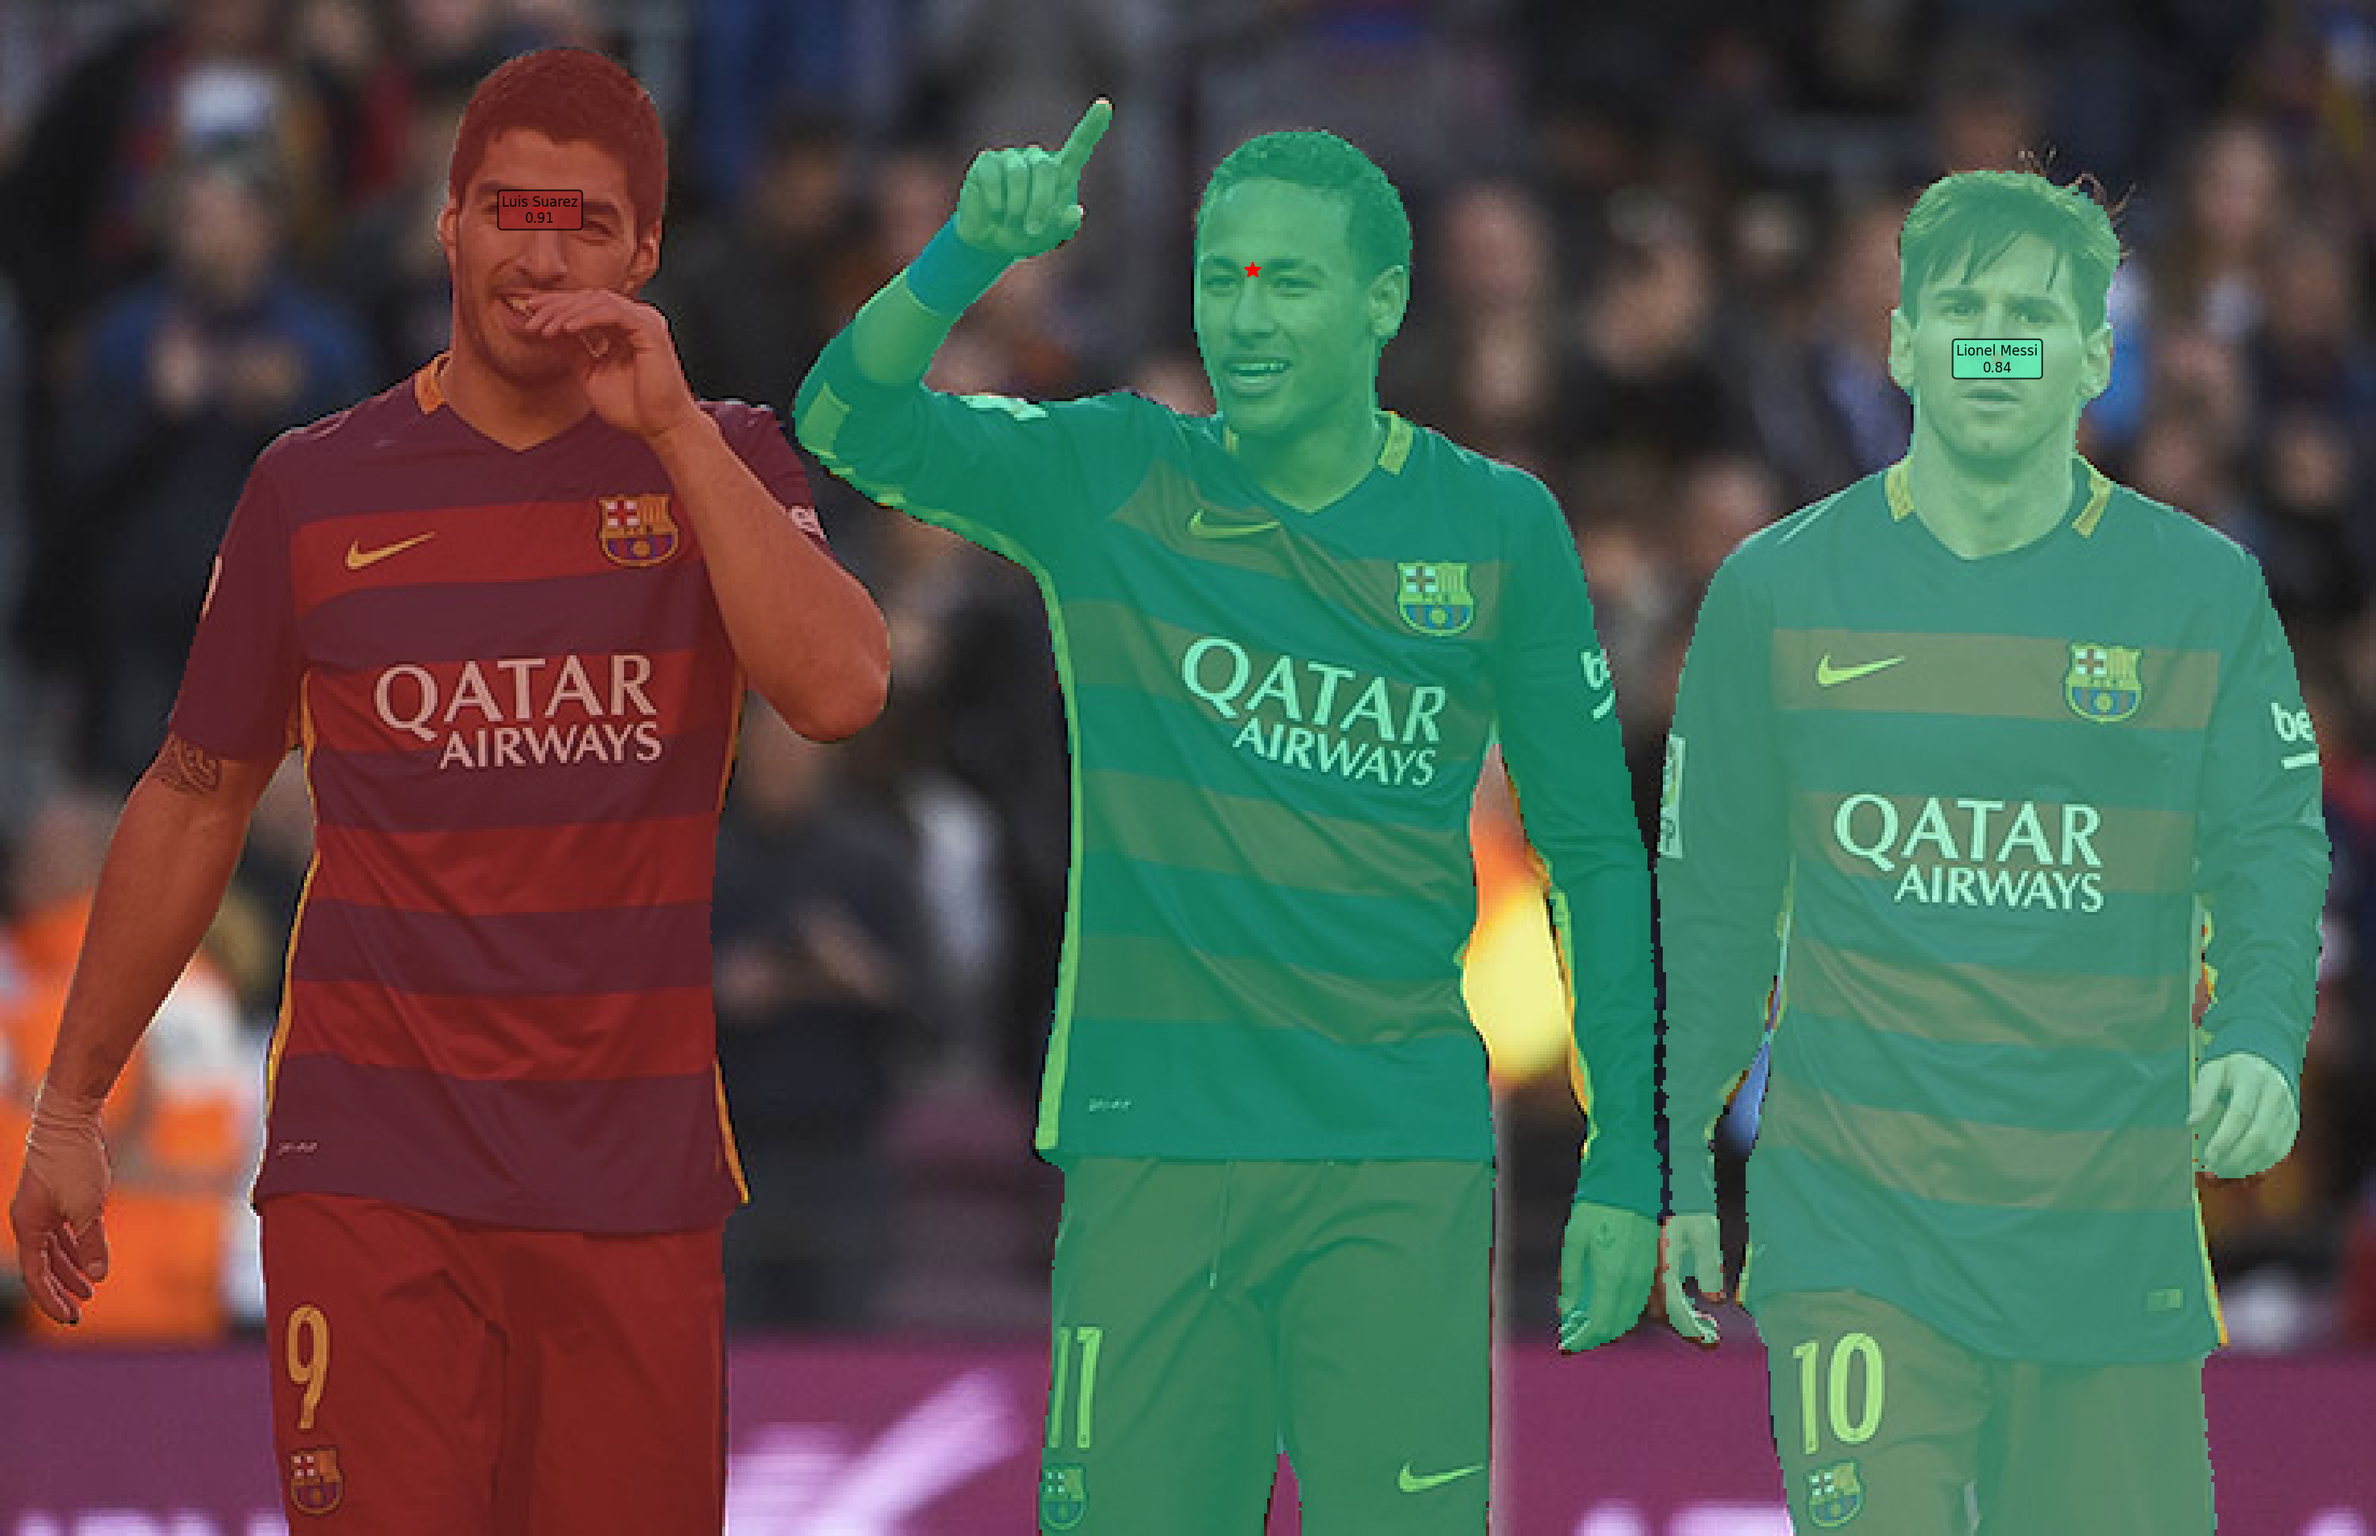
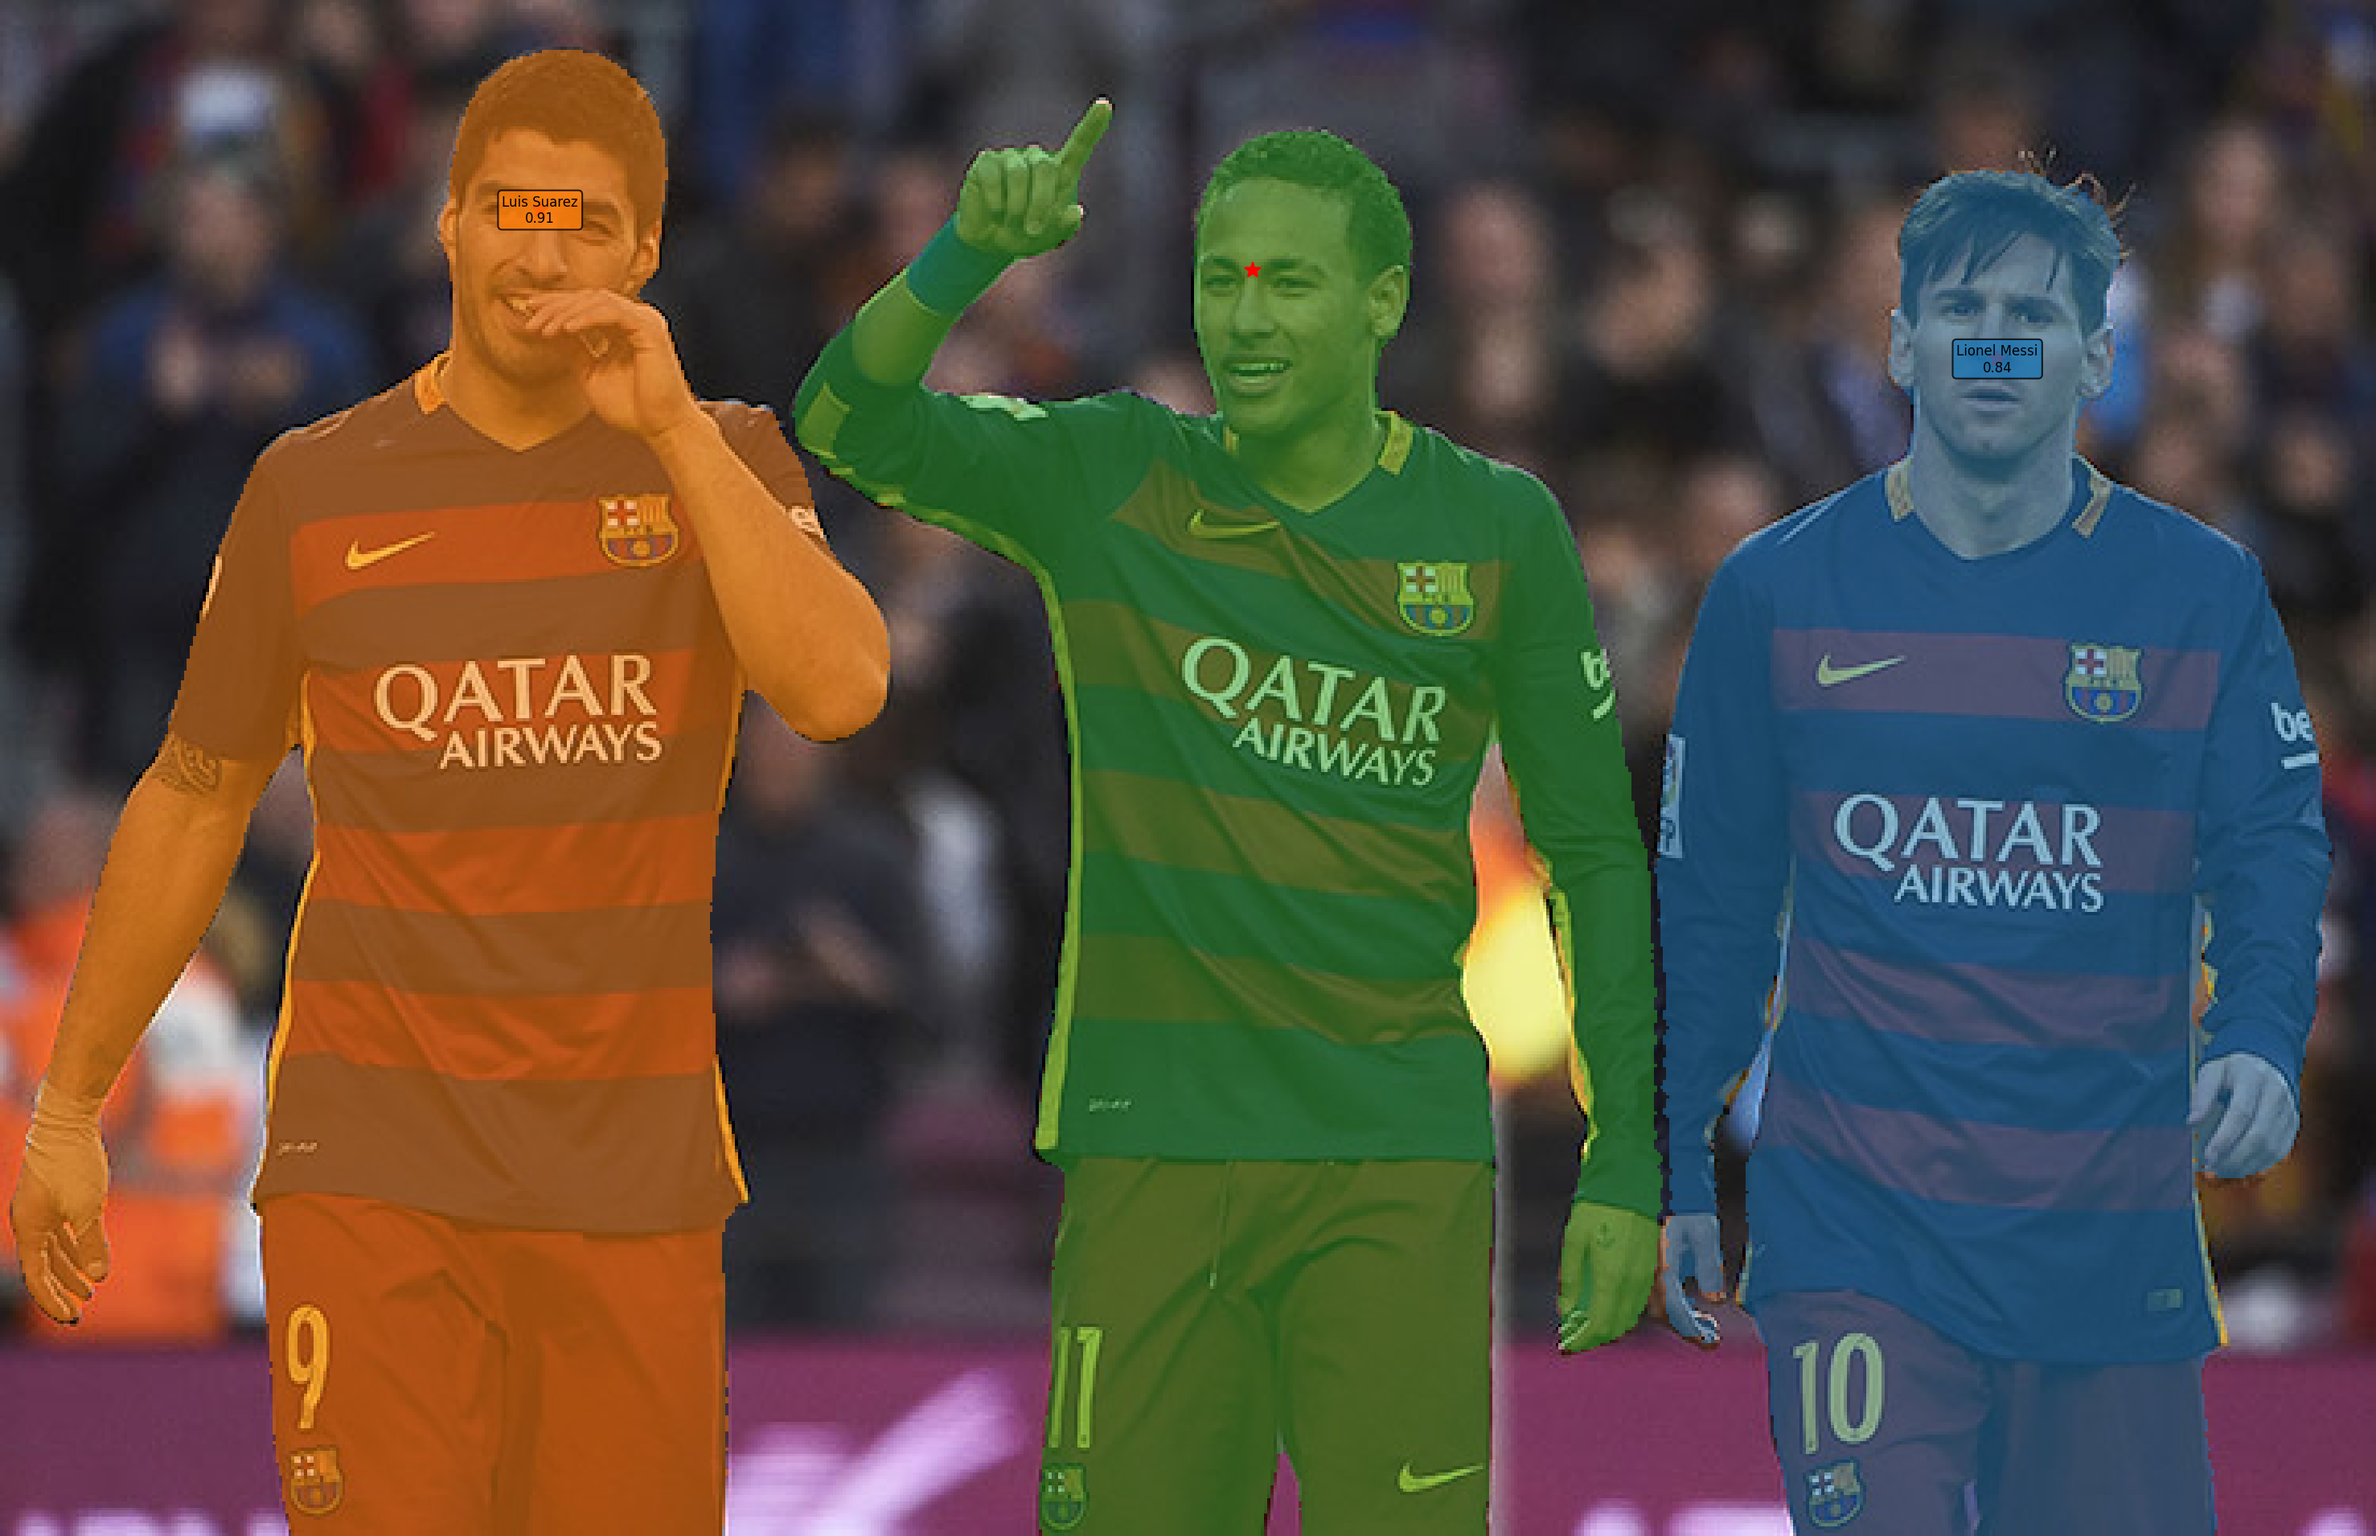
[Improve colors in visualizations]

diff --git a/code/clip_guided_segmentation.py b/code/clip_guided_segmentation.py
@@ -29,6 +29,54 @@ from scipy.ndimage import label, center_of_mass
 import cv2
 
 
+def generate_distinct_colors(n):
+    """
+    Generate visually distinct colors using a curated palette.
+
+    Args:
+        n: Number of colors needed
+
+    Returns:
+        List of RGB tuples in range [0, 1]
+    """
+    # Curated palette of visually distinct colors (RGB in 0-1 range)
+    base_palette = [
+        (0.12, 0.47, 0.71),  # Blue
+        (1.00, 0.50, 0.05),  # Orange
+        (0.17, 0.63, 0.17),  # Green
+        (0.84, 0.15, 0.16),  # Red
+        (0.58, 0.40, 0.74),  # Purple
+        (0.55, 0.34, 0.29),  # Brown
+        (0.89, 0.47, 0.76),  # Pink
+        (0.50, 0.50, 0.50),  # Gray
+        (0.74, 0.74, 0.13),  # Yellow
+        (0.09, 0.75, 0.81),  # Cyan
+        (1.00, 0.65, 0.00),  # Gold
+        (0.20, 0.80, 0.20),  # Lime
+        (0.80, 0.00, 0.80),  # Magenta
+        (0.00, 0.50, 0.50),  # Teal
+        (0.50, 0.00, 0.00),  # Maroon
+        (0.00, 0.00, 0.50),  # Navy
+    ]
+
+    if n <= len(base_palette):
+        return base_palette[:n]
+
+    # If we need more colors, generate additional ones using HSV
+    colors = list(base_palette)
+    for i in range(n - len(base_palette)):
+        hue = (i * 0.618033988749895) % 1.0  # Golden ratio for spacing
+        saturation = 0.6 + (i % 3) * 0.15
+        value = 0.7 + (i % 2) * 0.2
+
+        # Convert HSV to RGB
+        import colorsys
+        rgb = colorsys.hsv_to_rgb(hue, saturation, value)
+        colors.append(rgb)
+
+    return colors
+
+
 def is_video_file(file_path):
     """Check if file is a video."""
     video_extensions = {'.mp4', '.avi', '.mov', '.mkv', '.flv', '.wmv', '.webm'}
@@ -242,9 +290,9 @@ def visualize_results(image, results, vocabulary, output_path=None):
     fig, ax = plt.subplots(figsize=(20, 20))
     ax.imshow(image)
 
-    # Create color map for classes
-    np.random.seed(42)
-    class_colors = {i: np.random.random(3) for i in range(len(vocabulary))}
+    # Create color map for classes using distinct colors
+    distinct_colors = generate_distinct_colors(len(vocabulary))
+    class_colors = {i: distinct_colors[i] for i in range(len(vocabulary))}
 
     # Sort by region size (draw larger regions first)
     sorted_results = sorted(results, key=lambda x: x['region_size'], reverse=True)
@@ -323,9 +371,9 @@ def visualize_filtered_results(image, results, target_class, vocabulary, output_
         ax.imshow(image)
 
         # Use a single color for the target class
-        np.random.seed(42)
         target_class_idx = vocabulary.index(target_class)
-        class_colors = {i: np.random.random(3) for i in range(len(vocabulary))}
+        distinct_colors = generate_distinct_colors(len(vocabulary))
+        class_colors = {i: distinct_colors[i] for i in range(len(vocabulary))}
         target_color = class_colors[target_class_idx]
 
         # Sort by region size (draw larger regions first)

diff --git a/code/models/video_segmentation.py b/code/models/video_segmentation.py
@@ -16,8 +16,57 @@ import subprocess
 import tempfile
 import shutil
 import os
+import colorsys
 from typing import List, Dict
 from sam2.build_sam import build_sam2_video_predictor
+
+
+def generate_distinct_colors(n):
+    """
+    Generate visually distinct colors using a curated palette.
+
+    Args:
+        n: Number of colors needed
+
+    Returns:
+        List of RGB tuples in range [0, 255] (for OpenCV)
+    """
+    # Curated palette of visually distinct colors (RGB in 0-255 range for OpenCV)
+    base_palette = [
+        (31, 119, 180),   # Blue
+        (255, 127, 14),   # Orange
+        (44, 160, 44),    # Green
+        (214, 39, 40),    # Red
+        (148, 103, 189),  # Purple
+        (140, 86, 75),    # Brown
+        (227, 119, 194),  # Pink
+        (127, 127, 127),  # Gray
+        (188, 189, 34),   # Yellow
+        (23, 190, 207),   # Cyan
+        (255, 166, 0),    # Gold
+        (51, 204, 51),    # Lime
+        (204, 0, 204),    # Magenta
+        (0, 128, 128),    # Teal
+        (128, 0, 0),      # Maroon
+        (0, 0, 128),      # Navy
+    ]
+
+    if n <= len(base_palette):
+        return [list(c) for c in base_palette[:n]]
+
+    # If we need more colors, generate additional ones using HSV
+    colors = [list(c) for c in base_palette]
+    for i in range(n - len(base_palette)):
+        hue = (i * 0.618033988749895) % 1.0  # Golden ratio for spacing
+        saturation = 0.6 + (i % 3) * 0.15
+        value = 0.7 + (i % 2) * 0.2
+
+        # Convert HSV to RGB (0-255)
+        rgb_01 = colorsys.hsv_to_rgb(hue, saturation, value)
+        rgb_255 = [int(c * 255) for c in rgb_01]
+        colors.append(rgb_255)
+
+    return colors
 
 
 class CLIPGuidedVideoSegmentor:
@@ -183,11 +232,13 @@ class CLIPGuidedVideoSegmentor:
         # Create class_idx -> class_name mapping
         class_names = {p['class_idx']: p['class_name'] for p in prompts}
 
-        # Create colors for each class
-        np.random.seed(42)
+        # Create colors for each class using distinct colors
+        distinct_colors = generate_distinct_colors(len(class_names))
+        # Map class indices to colors
+        class_idx_list = sorted(class_names.keys())
         class_colors = {
-            class_idx: np.random.randint(0, 255, 3).tolist()
-            for class_idx in class_names.keys()
+            class_idx: distinct_colors[i]
+            for i, class_idx in enumerate(class_idx_list)
         }
 
         # Create temporary directory for frames
